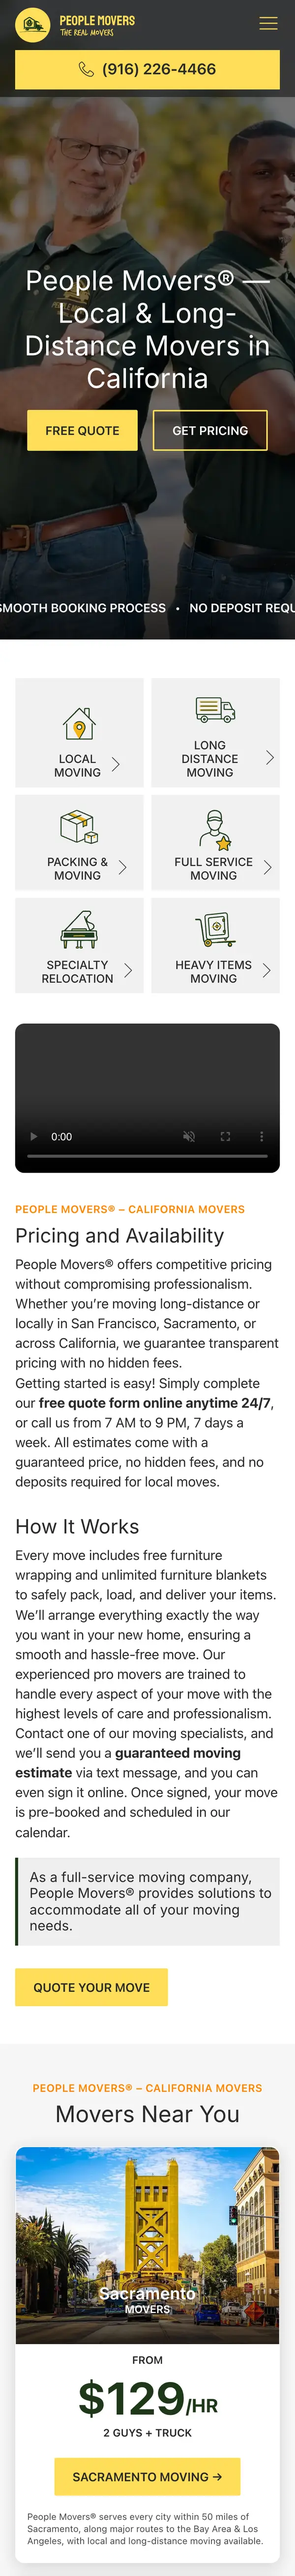
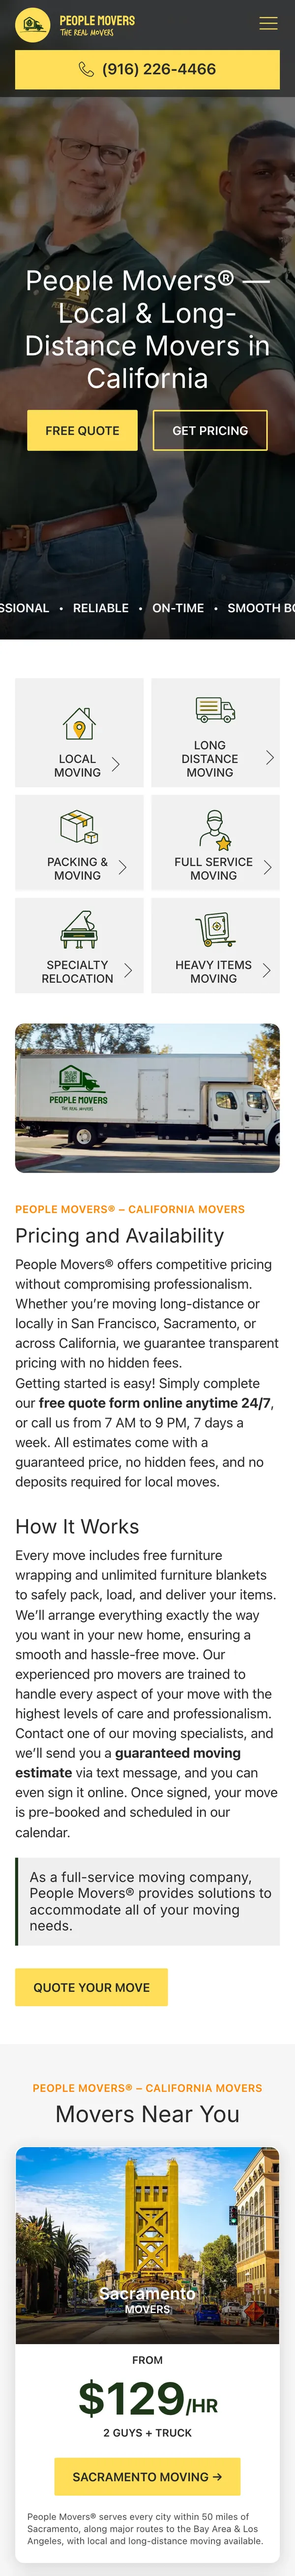
Portfolio: People Movers shows the long-distance page and the homepage on a phone
Replaces the two phone screenshots with a desktop capture of the
long-distance movers page and a fresh homepage capture whose video
block shows a real frame instead of an empty player.

Changed region(s): [[0.03, 0.3739, 0.96, 0.4674]]

diff --git a/src/portfolio/projects.js b/src/portfolio/projects.js
@@ -1,7 +1,7 @@
 // Case studies for portfolio.iglin.dev. Facts come from public/projects.md;
 // keep them in sync and never add contact details here.
 import pmHome from './shots/peoplemovers-home-mobile.webp'
-import pmSac from './shots/peoplemovers-sac-mobile.webp'
+import pmLongDistance from './shots/peoplemovers-ld-full.webp'
 import flsFull from './shots/fls-full.webp'
 import flsMobile from './shots/fls-mobile.webp'
 import araksHome from './shots/araks-home-full.webp'
@@ -43,11 +43,9 @@ export const projects = [
     ],
     stack: ['WordPress', 'Elementor Pro', 'PHP', 'JavaScript', 'WP-CLI', 'Cloudflare', 'Puppeteer', 'Lighthouse', 'GA4', 'GTM'],
     visual: {
-      layout: 'phones',
-      phones: [
-        { src: pmHome, alt: 'People Movers homepage on a phone' },
-        { src: pmSac, alt: 'Sacramento movers landing page on a phone' },
-      ],
+      layout: 'browser',
+      browser: { src: pmLongDistance, alt: 'Long-distance movers page, full page', domain: 'peoplemoverscalifornia.com', scroll: true },
+      phone: { src: pmHome, alt: 'People Movers homepage on a phone' },
     },
   },
   {
